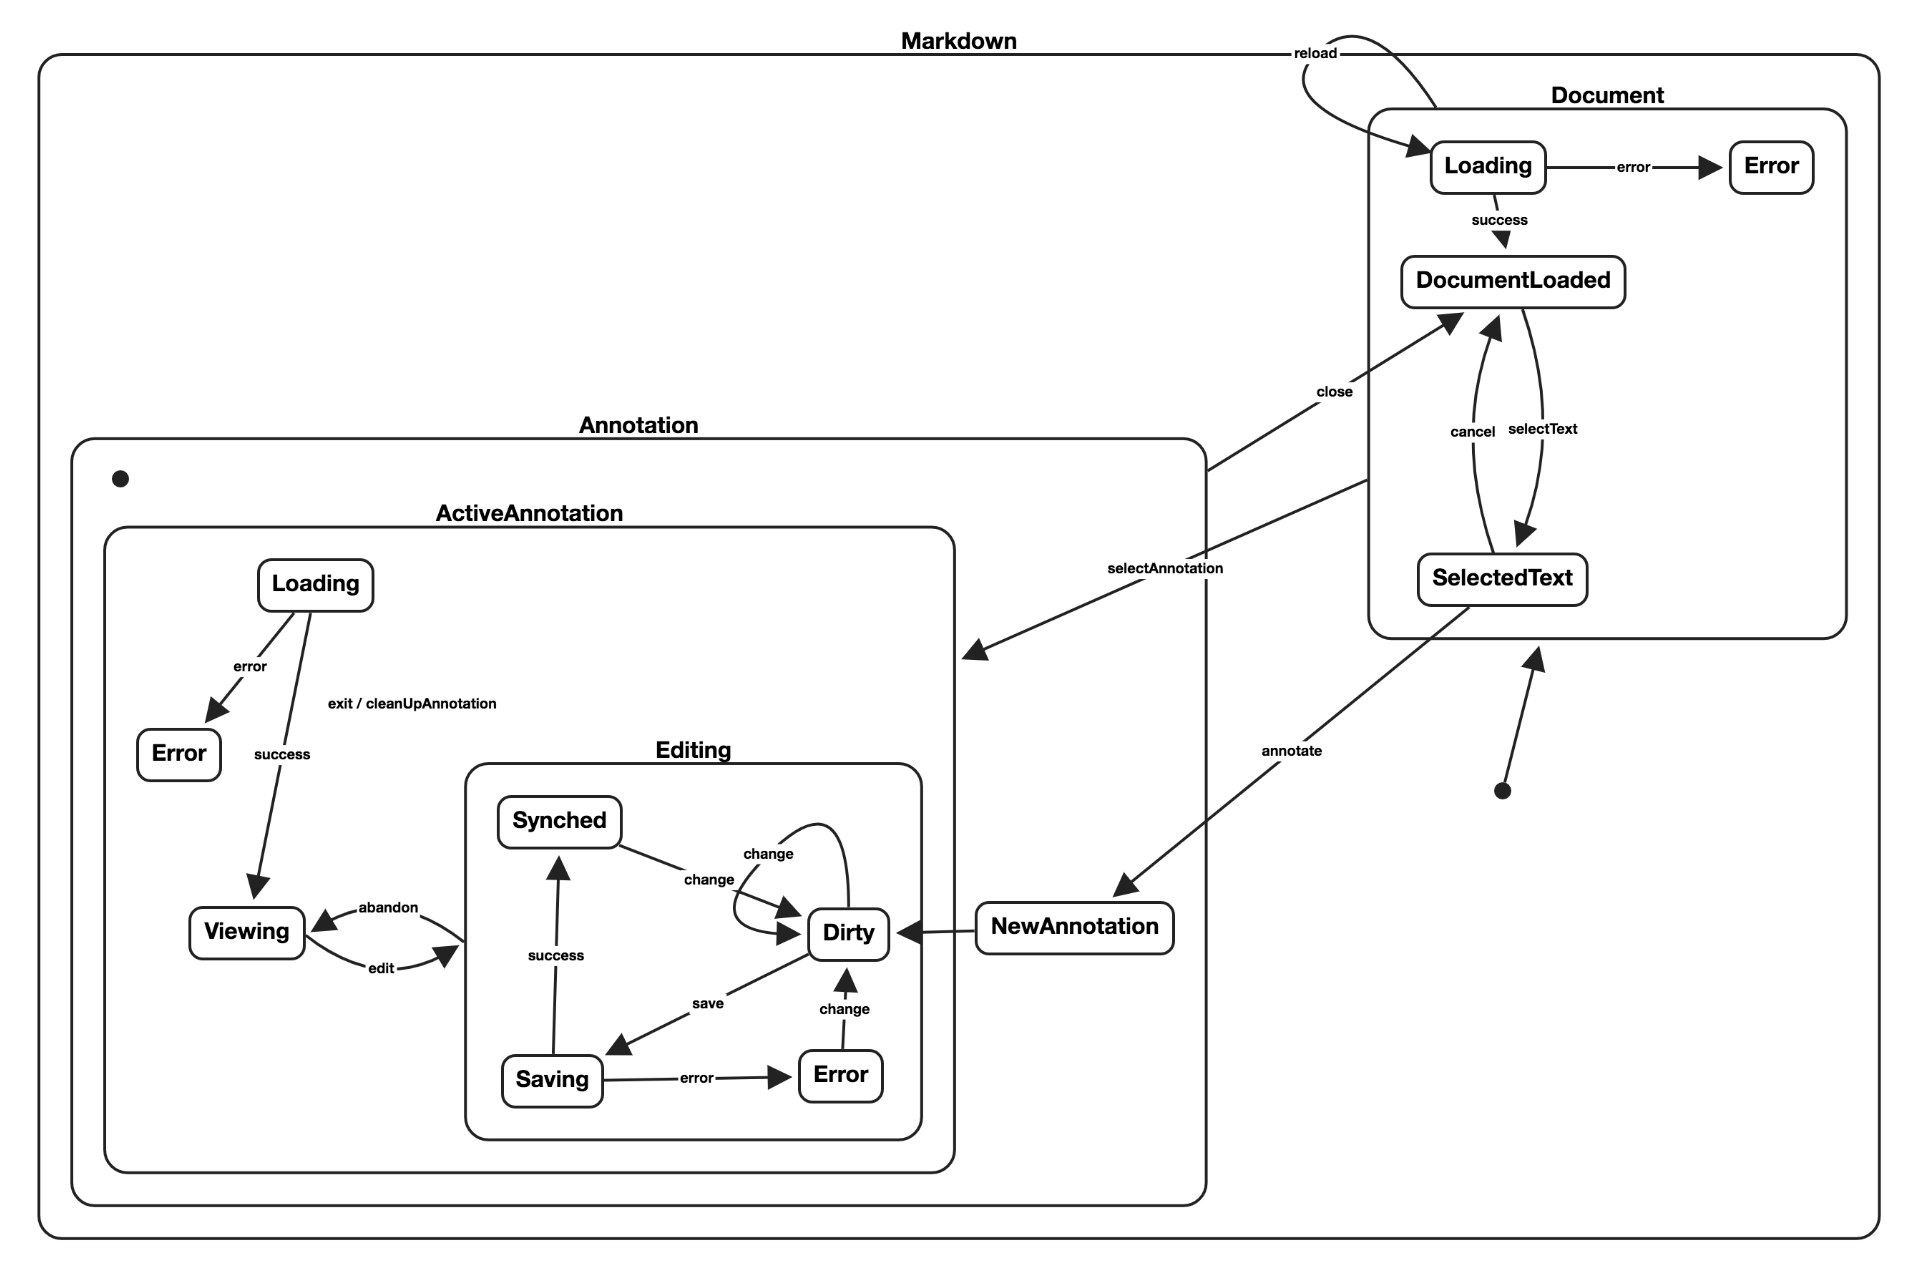
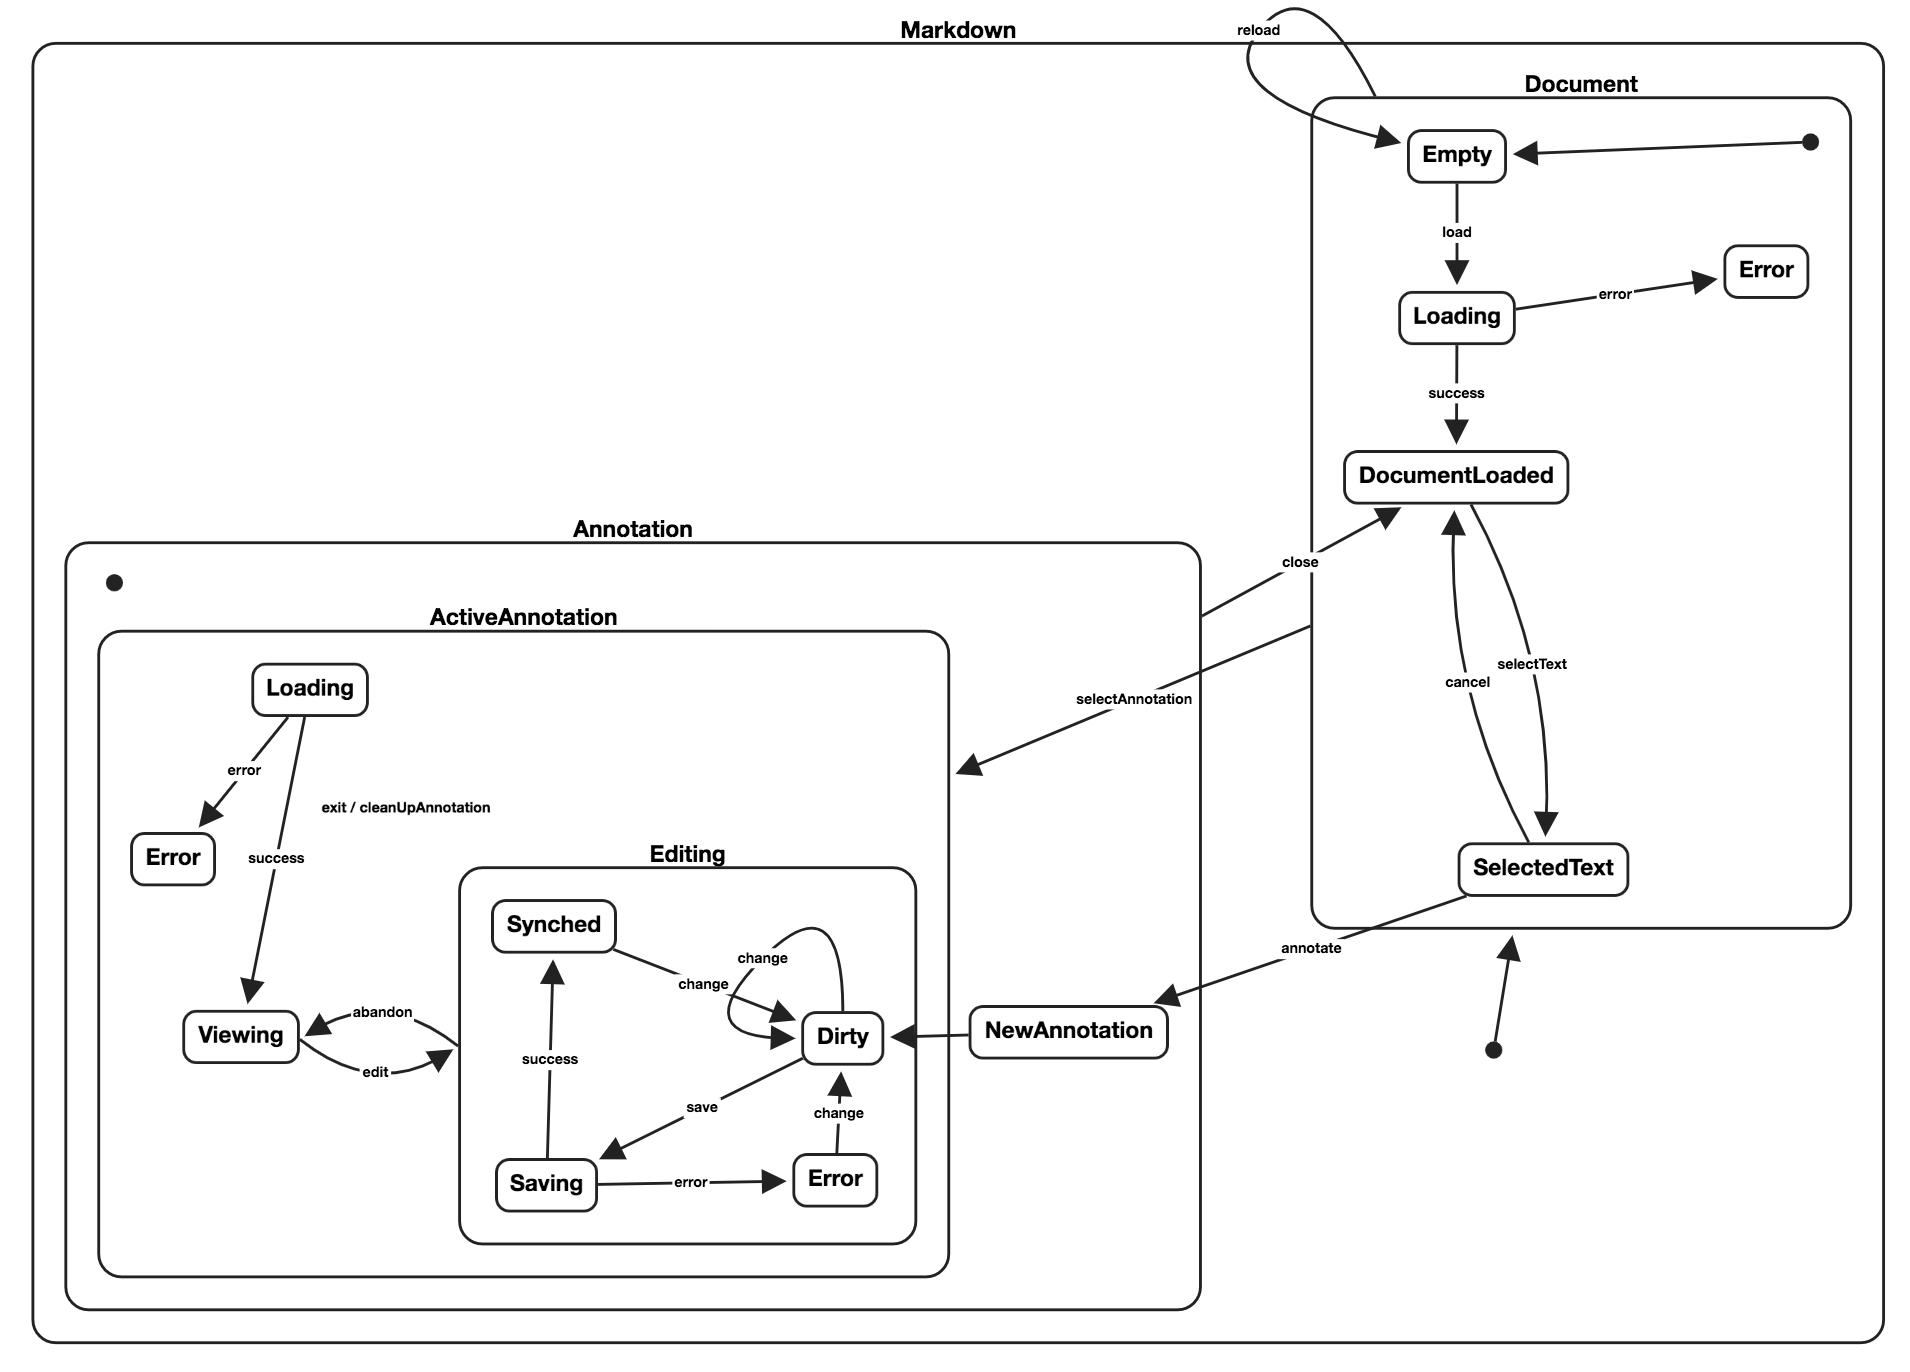
Large refactor of machine definition

diff --git a/src/states/machine.js b/src/states/machine.js
@@ -1,74 +1,106 @@
 export default {
   strict: true,
   key: 'Markdown',
-  initial: 'Empty',
+  initial: 'Document',
   states: {
-    Empty: {
-      on: {
-        load: 'Loading'
-      }
-    },
-    Loading: {
-      on: {
-        error: 'Error',
-        success: 'Document'
-      },
-      activities: ['loadMarkdown']
-    },
     Document: {
-      id: 'Document',
+      initial: 'Empty',
       on: {
-        selectText: 'TextSelected',
-        selectAnnotation: 'Annotation'
-      }
-    },
-    Error: {},
-    TextSelected: {
-      on: {
-        annotate: 'NewAnnotation',
-        cancel: 'Document'
+        selectAnnotation: '#ActiveAnnotation',
+        reload: '.Empty'
       },
-      onExit: ['clearSelection']
-    },
-    NewAnnotation: {
-      on: {
-        '': 'Annotation'
+      states: {
+        Empty: {
+          on: {
+            load: 'Loading'
+          }
+        },
+        Loading: {
+          on: {
+            success: 'DocumentLoaded',
+            error: 'Error'
+          },
+          activities: ['loadMarkdown']
+        },
+        DocumentLoaded: {
+          id: 'DocumentLoaded',
+          on: {
+            selectText: 'SelectedText'
+          }
+        },
+        Error: {},
+        SelectedText: {
+          on: {
+            annotate: '#NewAnnotation',
+            cancel: 'DocumentLoaded'
+          },
+          onExit: ['clearSelection']
+        }
       }
     },
     Annotation: {
       initial: 'ActiveAnnotation',
+      on: {
+        close: '#DocumentLoaded'
+      },
+      onExit: 'cleanUpAnnotation',
       states: {
-        ActiveAnnotation: {
+        NewAnnotation: {
+          id: 'NewAnnotation',
           on: {
-            edit: 'Editing',
-            done: '#Document'
+            '': '#Dirty'
           }
         },
-        Editing: {
-          initial: 'Synched',
-          on: {
-            done: 'ActiveAnnotation'
-          },
+        ActiveAnnotation: {
+          id: 'ActiveAnnotation',
+          initial: 'Loading',
           states: {
-            Synched: {
+            Loading: {
               on: {
-                change: 'Dirty'
+                success: 'Viewing',
+                error: 'Error'
+              },
+              activities: ['loadAnnotation']
+            },
+            Viewing: {
+              id: 'Viewing',
+              on: {
+                edit: 'Editing'
               }
             },
-            Dirty: {
+            Editing: {
+              id: 'Editing',
+              initial: 'Synched',
               on: {
-                save: 'Saving',
-                cancel: 'Synched'
+                abandon: '#Viewing'
+              },
+              states: {
+                Synched: {
+                  on: {
+                    change: 'Dirty'
+                  }
+                },
+                Dirty: {
+                  id: 'Dirty',
+                  on: {
+                    change: 'Dirty',
+                    save: 'Saving'
+                  }
+                },
+                Saving: {
+                  on: {
+                    success: 'Synched',
+                    error: 'Error'
+                  }
+                },
+                Error: {
+                  on: {
+                    change: 'Dirty'
+                  }
+                }
               }
             },
-            Saving: {
-              on: {
-                saved: 'Synched',
-                cancel: 'Synched',
-                error: 'SaveError'
-              }
-            },
-            SaveError: {}
+            Error: {}
           }
         }
       }

diff --git a/test/app.test.js b/test/app.test.js
@@ -17,7 +17,7 @@ test('Unknown transition in strict mode', () => {
 
 test('Initial state', () => {
   const app = new App();
-  expect(app.currentState.value).toBe('Empty');
+  expect(app.currentState.value).toEqual({ Document: 'Empty' });
 });
 
 test('load', () => {
@@ -25,7 +25,7 @@ test('load', () => {
   const app = new App();
   expect(app).toBeInstanceOf(App);
   return app.transition('load').then(() => {
-    expect(app.currentState.value).toBe('Document');
+    expect(app.currentState.value).toEqual({ Document: 'DocumentLoaded' });
     expect(app.state.file.name).toBe('some-file.md');
     expect(app.state.file.markdown).toMatch(/^# Hello, world!/);
   });
@@ -34,8 +34,8 @@ test('load', () => {
 test('selectText', () => {
   expect.hasAssertions();
   const start = {
-    currentState: 'Document',
-    state: { file: { name: 'X' } }
+    currentState: { Document: 'DocumentLoaded' },
+    state: { file: { name: 'file.md' } }
   };
   const app = new App(start);
   return app
@@ -45,7 +45,7 @@ test('selectText', () => {
       end: { line: 34, column: 77 }
     })
     .then(() => {
-      expect(app.currentState.value).toBe('TextSelected');
+      expect(app.currentState.value).toEqual({ Document: 'SelectedText' });
       expect(app.state.selection.start.line).toBe(33);
       expect(app.state.selection.end.column).toBe(77);
     });
@@ -54,7 +54,7 @@ test('selectText', () => {
 test('cancel text selection', () => {
   expect.hasAssertions();
   const start = {
-    currentState: 'TextSelected',
+    currentState: { Document: 'SelectedText' },
     state: {
       file: { name: 'X' },
       selection: {
@@ -66,7 +66,7 @@ test('cancel text selection', () => {
   };
   const app = new App(start);
   return app.transition('cancel').then(() => {
-    expect(app.currentState.value).toBe('Document');
+    expect(app.currentState.value).toEqual({ Document: 'DocumentLoaded' });
     expect(app.state.selection).toBeUndefined();
   });
 });

diff --git a/src/states/state.js b/src/states/state.js
@@ -35,7 +35,8 @@ export default {
           on: {
             annotate: '#NewAnnotation',
             cancel: 'DocumentLoaded'
-          }
+          },
+          onExit: ['clearSelection']
         }
       }
     },
